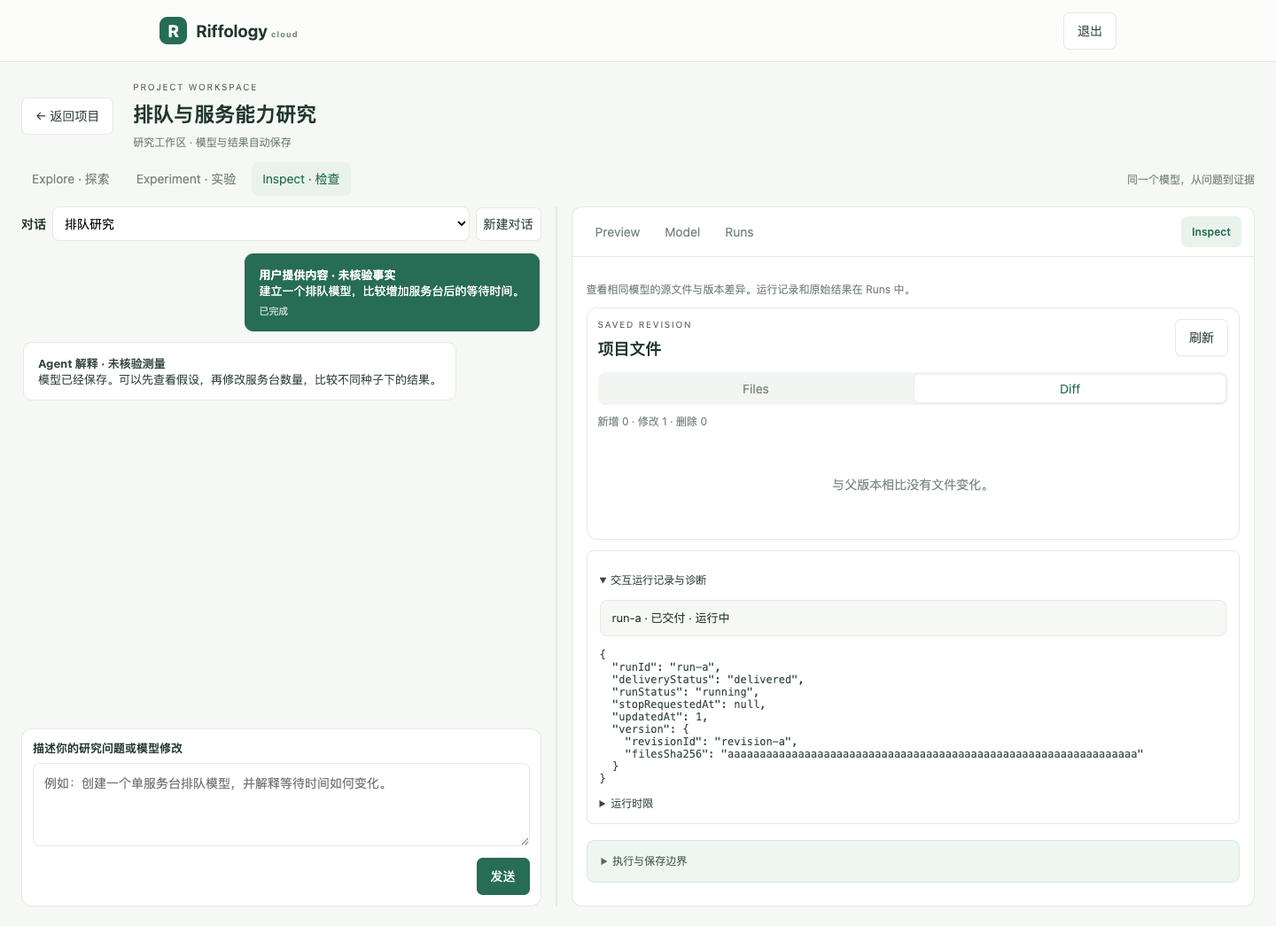
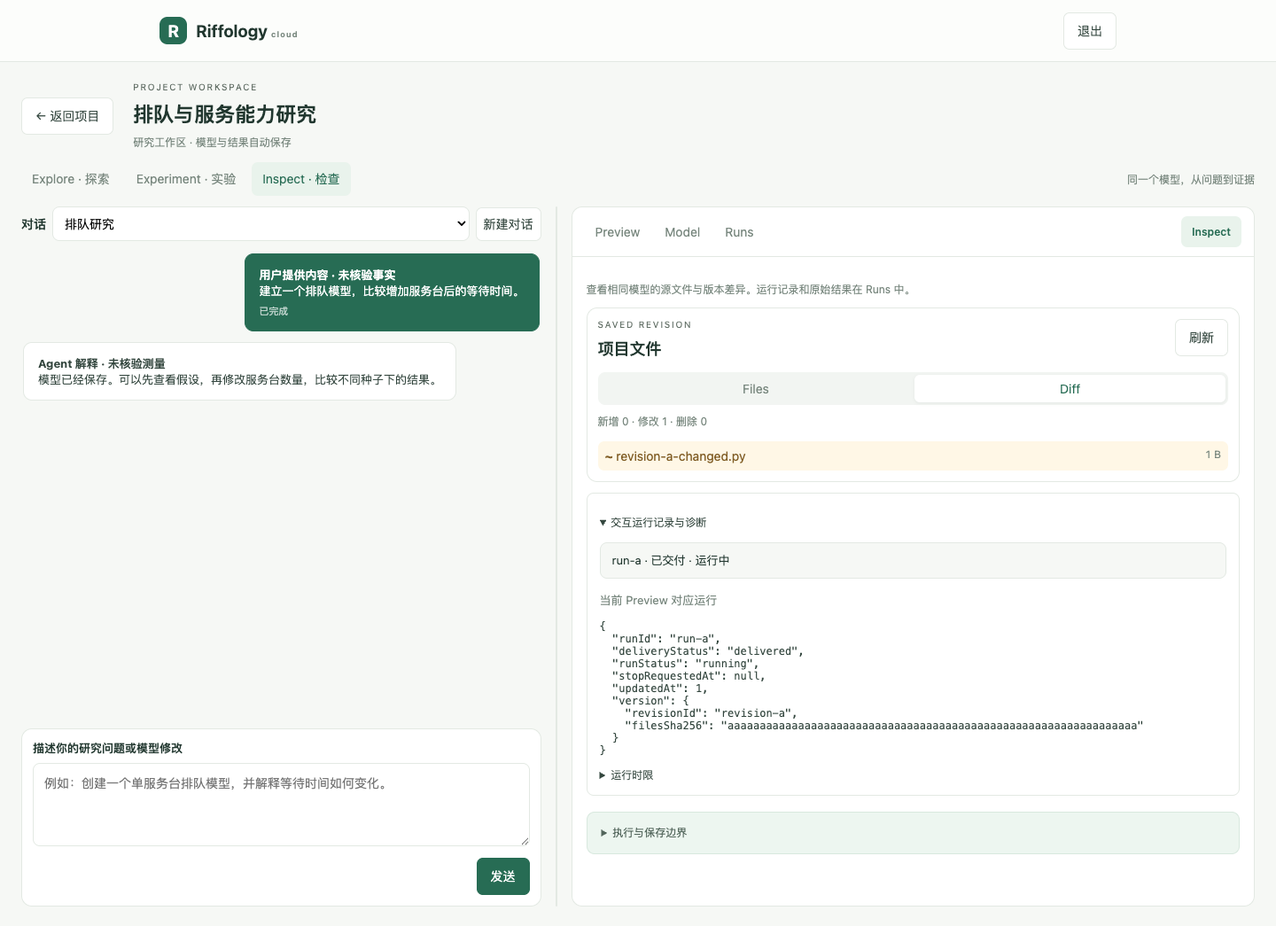
fix: fence stale preview and inspect read transitions

Changed region(s): [[0.4688, 0.5512, 0.875, 0.8268], [0.4688, 0.4593, 0.9688, 0.5512], [0.4688, 0.8268, 0.5312, 0.9493]]

diff --git a/services/web/previews.js b/services/web/previews.js
@@ -5,7 +5,7 @@ export function createPreviewPanel({ root, api, requestTimeoutMs = 15000, autoRe
   const doc = root.ownerDocument, win = doc.defaultView;
   const controls = doc.createElement('div'), frames = doc.createElement('div'), requests = new Set();
   let context = null, generation = 0, version = 0, selected = null, state = null, message = '', busy = false, loading = false, loadingPromise = null;
-  let frame = null, shownPreviewId = null, frameVersion = 0, expiryTimer = null, listener = null, awaitingRunId=null;
+  let frame = null, shownPreviewId = null, frameVersion = 0, expiryTimer = null, listener = null, awaitingRunId=null,stoppedRuns=new Set(),queuedOpenRun=null;
   const closedKey=()=>`riffology:preview-closed:${context.tenantId}:${context.workspaceId}`;
   const closed=()=>{try{return win.sessionStorage.getItem(closedKey());}catch{return null;}};
   const rememberClosed=value=>{try{if(value)win.sessionStorage.setItem(closedKey(),value);else win.sessionStorage.removeItem(closedKey());}catch{}};
@@ -63,6 +63,7 @@ export function createPreviewPanel({ root, api, requestTimeoutMs = 15000, autoRe
   function showTarget(raw,automatic=false) {
     if (!context?.canOpen) return;
     let value; try { value = target(raw); } catch { removeFrame(); message = '预览地址无效或已过期，请刷新。'; render(); return; }
+    if(stoppedRuns.has(value.runId)||awaitingRunId&&awaitingRunId!==value.runId)return;
     if(automatic&&(closed()===value.previewId||awaitingRunId&&awaitingRunId!==value.runId))return;if(!automatic)rememberClosed(null);awaitingRunId=null;
     removeFrame(); const token = generation, fv = frameVersion, scope = context, origin = new URL(value.bootstrapUrl).origin;
     const node = doc.createElement('iframe'); frame = node; shownPreviewId = value.previewId; node.title = '项目预览'; node.sandbox.value = 'allow-scripts allow-same-origin allow-forms'; node.referrerPolicy = 'no-referrer';
@@ -91,7 +92,7 @@ export function createPreviewPanel({ root, api, requestTimeoutMs = 15000, autoRe
     const token = generation, v = ++version, scope = context;
     loading = true; render();
     const task = (async () => {
-    try { const result = snapshot(await request(path(scope))); if (token !== generation || v !== version) return; state = result; if(frame && result.available?.previewId !== shownPreviewId)removeFrame(); if (!selected) selected = intent()?.body.runId || result.available?.runId || result.current?.runId || null; message = '';if(!awaitingRunId||result.available?.runId===awaitingRunId)onState?.(result);if(autoRestore&&result.available&&!frame&&!intent())showTarget(result.available,true); }
+    try { const result = snapshot(await request(path(scope))); if (token !== generation || v !== version) return;if(result.available&&stoppedRuns.has(result.available.runId))result.available=null; state = result; if(frame && result.available?.previewId !== shownPreviewId)removeFrame(); if (!selected) selected = intent()?.body.runId || result.available?.runId || result.current?.runId || null; message = '';if(!awaitingRunId||result.available?.runId===awaitingRunId)onState?.(result);if(autoRestore&&result.available&&!frame&&!intent())showTarget(result.available,true); }
     catch (error) { if (token === generation && v === version) { state = null; removeFrame(); message = error.name === 'TimeoutError' ? '读取预览超时。' : error?.status && error.status < 500 ? `无法读取预览：${error.message}` : '读取预览失败，请重试。'; } }
     finally { if (token === generation && v === version) { loading = false; render(); } }
     })();
@@ -101,35 +102,36 @@ export function createPreviewPanel({ root, api, requestTimeoutMs = 15000, autoRe
   }
   async function open() {
     if (!context?.canOpen || busy || loading || (!selected && !intent())) return;
-    const token = generation, scope = context, runId = selected; let submitted = false; ++version; busy = true; render();
+    const token = generation, scope = context, runId = selected, v=++version; let submitted = false; busy = true; render();
     try {
-      const latest = snapshot(await request(path(scope))); if (token !== generation) return; state = latest;
+      const latest = snapshot(await request(path(scope))); if (token !== generation||v!==version||stoppedRuns.has(runId)) return; state = latest;
       const pending = intent() || { key: crypto.randomUUID(), body: { runId, expectedPreviewId: latest.current?.previewId ?? null } };
       try { save(pending); } catch { message = '无法保存打开请求，请检查浏览器存储后重试。'; return; }
       submitted = true;
       const result = await request(path(scope), { method: 'POST', headers: { 'Idempotency-Key': pending.key }, body: JSON.stringify(pending.body) });
       if (token !== generation) return;
       const available = target(result); if (available.runId !== pending.body.runId) throw Error('preview-run-mismatch');
-      save(null); state = { current: { previewId: available.previewId, runId: available.runId, expiresAt: available.expiresAt, revokedAt: null }, available }; message = ''; showTarget(available);
+      save(null);if(v!==version||stoppedRuns.has(available.runId)||awaitingRunId&&awaitingRunId!==available.runId)return; state = { current: { previewId: available.previewId, runId: available.runId, expiresAt: available.expiresAt, revokedAt: null }, available }; message = ''; showTarget(available);
     } catch (error) {
       if (token !== generation) return;
       if (!submitted) message = error?.status === 503 ? '读取预览失败：服务暂不可用，请稍后重试。' : error?.name === 'TimeoutError' ? '读取预览超时，请重试。' : '读取预览失败，请重试。';
       else if (error?.status === 409) { try { save(null); } catch {} message = '状态已变化，请刷新后重试。'; }
       else if (error?.status && error.status < 500) message = `无法打开预览：${error.message}`;
       else message = '启动结果尚未确认，可使用同一请求重试。';
-    } finally { if (token === generation) { busy = false; render(); } }
+    } finally { if (token === generation) { busy = false; render();if(queuedOpenRun&&!intent()){const next=queuedOpenRun;queuedOpenRun=null;void openRun(next);} } }
   }
   function click(event) {
     const b = event.target.closest?.('[data-preview-action]'); if (!b || !root.contains(b) || b.disabled) return;
     const action = b.dataset.previewAction;
     if (action === 'open') void open(); else if (action === 'refresh') void load(); else if (action === 'recover') showTarget(state?.available); else if (action === 'close') { if(autoRestore)rememberClosed(shownPreviewId);removeFrame(); message = '已关闭预览视图，服务未停止。'; render(); }
   }
-  function leave() { generation++; version++; removeFrame(); for (const c of requests) c.abort(); requests.clear(); context = null; selected = null;awaitingRunId=null; state = null; message = ''; busy = false; loading = false; loadingPromise = null; root.removeEventListener('click', click); root.replaceChildren(); }
+  function leave() { generation++; version++; removeFrame(); for (const c of requests) c.abort(); requests.clear(); context = null; selected = null;awaitingRunId=null;stoppedRuns=new Set();queuedOpenRun=null; state = null; message = ''; busy = false; loading = false; loadingPromise = null; root.removeEventListener('click', click); root.replaceChildren(); }
   async function enter(value) { leave(); if (!value || !id(value.tenantId) || !id(value.workspaceId)) throw Error('invalid-preview-context'); context = { tenantId: value.tenantId, workspaceId: value.workspaceId, canOpen: value.canOpen === true }; selected = intent()?.body.runId || null; root.append(controls, frames); root.addEventListener('click', click); render(); await load(); }
   function selectRun(runId) { selected = id(runId) ? runId : null; render(); }
-  async function openRun(runId) { selectRun(runId); if (!selected) return; const token = generation; if (loadingPromise) await loadingPromise; if (token !== generation || selected !== runId) return; await open(); }
-  async function restoreRun(runId){if(!context||!id(runId))return;const token=generation;if(loadingPromise)await loadingPromise;if(token!==generation||intent()||closed()&&closed()===state?.current?.previewId)return;if(state?.available){if(state.available.runId===runId&&!frame)showTarget(state.available,true);return;}if(state?.current&&state.current.runId!==runId)return;selectRun(runId);await open();}
-  function stoppedRun(runId){if(state?.available?.runId===runId||state?.current?.runId===runId){removeFrame();if(state)state.available=null;message='交互模型已停止，参数与已保存结果仍可查看。重新运行需明确操作。';render();}}
-  function prepareRun(runId){if(!context||!id(runId))return;awaitingRunId=runId;removeFrame();message='新模型正在准备；确认运行后将显示新版本。';render();}
+  async function openRun(runId) { if(busy||intent()&&intent().body.runId!==runId){queuedOpenRun=runId;return;}selectRun(runId); if (!selected) return; const token = generation; if (loadingPromise) await loadingPromise; if (token !== generation || selected !== runId) return; await open(); }
+  async function restoreRun(runId){if(!context||!id(runId))return;const token=generation;if(loadingPromise)await loadingPromise;if(token!==generation||stoppedRuns.has(runId)||intent()||closed()&&closed()===state?.current?.previewId)return;if(state?.available){if(state.available.runId===runId&&!frame)showTarget(state.available,true);return;}if(state?.current&&state.current.runId!==runId)return;selectRun(runId);await open();}
+  function invalidateRead(){version++;loading=false;loadingPromise=null;}
+  function stoppedRun(runId){if(!id(runId))return;stoppedRuns.add(runId);if(selected===runId||state?.available?.runId===runId||state?.current?.runId===runId){invalidateRead();removeFrame();if(state)state.available=null;message='交互模型已停止，参数与已保存结果仍可查看。重新运行需明确操作。';render();}}
+  function prepareRun(runId){if(!context||!id(runId))return;invalidateRead();awaitingRunId=runId;removeFrame();message='新模型正在准备；确认运行后将显示新版本。';render();}
   return { enter, leave, selectRun, openRun, restoreRun, stoppedRun,prepareRun };
 }

diff --git a/services/web/services.js b/services/web/services.js
@@ -8,7 +8,7 @@ export function createServicePanel({ root, inspectRoot = null, api, onPreviewRun
   let current = null, generation = 0, listVersion = 0, detailVersion = 0, rows = [], cursor = null, selected = null, detail = null, savedRevision = null;
   let listError = '', listLoading = false, detailError = '', message = '', pending = null, posting = false, stopping = false, duration = 300000, timer = null, listening = false;
   const reads = new Set(), requests = new Set();
-  let previewNotified=null,explicitPreview=false;
+  let previewNotified=null,explicitPreview=false,inspectionDetail=null,inspectionError='',inspectVersion=0;
   const keyFor = context => `riffology:service-intent:${context.tenantId}:${context.workspaceId}`;
   const base = context => `/api/workspaces/${encodeURIComponent(context.workspaceId)}/services`;
   function save(context, value) { try { if (value) sessionStorage.setItem(keyFor(context), JSON.stringify(value)); else sessionStorage.removeItem(keyFor(context)); } catch { return false; } return true; }
@@ -44,7 +44,7 @@ export function createServicePanel({ root, inspectRoot = null, api, onPreviewRun
     if(workspaceMode){
       if(selected)controls.append(button(stopping?'正在停止…':'停止','stop',stopping||Boolean(!detailError&&detail&&isSettled(detail))));
       const currentState=element('p',detailError||listError||(detail?`${runLabels[detail.runStatus]||'正在恢复运行状态'}${detail.version?.revisionId?` · 模型版本：${detail.version.revisionId}`:''}${message?` · ${message}`:''}`:message|| (listLoading?'正在恢复模型状态…':'尚无交互预览；可运行已保存模型。')));currentState.setAttribute('role','status');
-      const diagnostics=element('details');diagnostics.dataset.inspectOnly='';diagnostics.className='workspace-service-details';diagnostics.append(element('summary','交互运行记录与诊断'),list);if(detail)diagnostics.append(element('pre',JSON.stringify(detail,null,2)));
+      const diagnostics=element('details');diagnostics.dataset.inspectOnly='';diagnostics.className='workspace-service-details';diagnostics.open=inspectRoot?.querySelector('details')?.open??false;diagnostics.append(element('summary','交互运行记录与诊断'),list);if(cursor)diagnostics.append(button('加载更多','more',listLoading));if(inspectionError)diagnostics.append(element('p',inspectionError));const inspected=inspectionDetail??detail;if(inspected){diagnostics.append(element('p',inspectionDetail?'历史运行详情；当前 Preview 与停止目标保持不变。':'当前 Preview 对应运行'),element('pre',JSON.stringify(inspected,null,2)));}
       if(inspectRoot){const durationBox=controls.querySelector('[data-inspect-only]');if(durationBox)diagnostics.append(durationBox);inspectRoot.replaceChildren(diagnostics);root.replaceChildren(controls,currentState);}else root.replaceChildren(controls,currentState,diagnostics);return;
     }
     root.replaceChildren(...contents);
@@ -97,11 +97,15 @@ export function createServicePanel({ root, inspectRoot = null, api, onPreviewRun
     catch (error) { if (token === generation && runId === selected) { detailError = error?.status && error.status < 500 ? `无法停止服务：${error.message}` : '停止结果尚未确认，请重试停止并刷新详情。'; } }
     finally { if (token === generation) { stopping = false; render(); schedule(); } }
   }
-  function click(event) { const target = event.target.closest?.('[data-service-action]'); if (!target || (!root.contains(target)&&!inspectRoot?.contains(target)) || target.disabled) return; const action = target.dataset.serviceAction; if(action==='preview'){if(current?.canStart&&!detailError&&detail?.runStatus==='running'&&!detail?.stopRequestedAt)onPreviewRun?.(selected);} else if (action === 'start') void start(); else if (action === 'refresh') { void load(); if(workspaceMode&&selected)void refreshDetail(); } else if (action === 'more') void load(true); else if (action === 'detail') void refreshDetail(); else if (action === 'stop') void stop(); else if (action === 'select') { selected = target.dataset.runId; detail = null; detailError = ''; render(); void refreshDetail(); } }
+  function click(event) { const target = event.target.closest?.('[data-service-action]'); if (!target || (!root.contains(target)&&!inspectRoot?.contains(target)) || target.disabled) return; const action = target.dataset.serviceAction; if(action==='preview'){if(current?.canStart&&!detailError&&detail?.runStatus==='running'&&!detail?.stopRequestedAt)onPreviewRun?.(selected);} else if (action === 'start') void start(); else if (action === 'refresh') { void load(); if(workspaceMode&&selected)void refreshDetail(); } else if (action === 'more') void load(true); else if (action === 'detail') void refreshDetail(); else if (action === 'stop') void stop(); else if (action === 'select'&&workspaceMode) { void inspectRun(target.dataset.runId); } else if (action === 'select') { selected = target.dataset.runId; detail = null; detailError = ''; render(); void refreshDetail(); } }
+  async function inspectRun(runId){
+    if(!current||!id(runId))return;const token=generation,version=++inspectVersion;inspectionError='';
+    try{const value=await read(`${base(current)}/${encodeURIComponent(runId)}`);if(token!==generation||version!==inspectVersion)return;inspectionDetail=value;}catch(error){if(token!==generation||version!==inspectVersion)return;inspectionError=error.message||'历史运行详情读取失败';}render();
+  }
   function change(event) { if (event.target.matches?.('[data-service-duration]') && !pending) duration = Number(event.target.value); }
   function visibility() { clearTimer(); if (doc.hidden) { detailVersion++; for (const controller of reads) controller.abort(); } else if (selected) void refreshDetail(); }
   function close() { generation++; listVersion++; detailVersion++; current = null; clearTimer(); for (const controller of requests) controller.abort(); requests.clear(); reads.clear(); if (listening) { root.removeEventListener('click', click); root.removeEventListener('change', change);inspectRoot?.removeEventListener('click',click);inspectRoot?.removeEventListener('change',change); doc.removeEventListener('visibilitychange', visibility); listening = false; } root.replaceChildren();inspectRoot?.replaceChildren(); }
-  function open(context) { close(); current = { ...context };previewNotified=null;explicitPreview=false; savedRevision = null; rows = []; cursor = null; selected = null; detail = null; listError = ''; detailError = ''; pending = restore(current); posting = false; stopping = false; message = pending ? '存在未确认的启动请求，请使用原请求重试。' : ''; if (!listening) { root.addEventListener('click', click); root.addEventListener('change', change);inspectRoot?.addEventListener('click',click);inspectRoot?.addEventListener('change',change); doc.addEventListener('visibilitychange', visibility); listening = true; } render(); return load(); }
+  function open(context) { close(); current = { ...context };previewNotified=null;explicitPreview=false;inspectionDetail=null;inspectionError='';inspectVersion++; savedRevision = null; rows = []; cursor = null; selected = null; detail = null; listError = ''; detailError = ''; pending = restore(current); posting = false; stopping = false; message = pending ? '存在未确认的启动请求，请使用原请求重试。' : ''; if (!listening) { root.addEventListener('click', click); root.addEventListener('change', change);inspectRoot?.addEventListener('click',click);inspectRoot?.addEventListener('change',change); doc.addEventListener('visibilitychange', visibility); listening = true; } render(); return load(); }
   function updateSavedRevision(workspaceId, revision) { if (current?.workspaceId !== workspaceId) return; savedRevision = revision && typeof revision === 'object' ? { ...revision } : null; render();if(workspaceMode&&detail)onState?.(detail,savedRevision); }
   function selectRun(runId){if(!current||!id(runId)||selected===runId)return;selected=runId;detail=null;detailError='';void refreshDetail();}
   return { open, close, savedRevision: updateSavedRevision,selectRun };

diff --git a/services/web/app.js b/services/web/app.js
@@ -85,7 +85,7 @@ function canSubmitConversation() {
 let eventSource = null;
 let eventRetryTimer = null;
 let snapshotRecovery = false;
-let workspaceFiles = null;
+let workspaceFiles = null, filesReadEpoch = 0, diffReadEpoch = 0;
 let workspaceFilesError = '';
 let workspaceDiff = null;
 let workspaceDiffError = '';
@@ -377,7 +377,7 @@ function renderWorkspaceFiles() {
   if (!workspaceFiles) { meta.textContent = '正在读取最新已保存版本…'; const loading = document.createElement('p'); loading.className = 'file-empty'; loading.textContent = '正在加载文件清单'; box.append(loading); return; }
   const files = Array.isArray(workspaceFiles.files) ? workspaceFiles.files : [];
   if (!workspaceFiles.revision) { meta.textContent = '尚无 Turn 保存版本'; const empty = document.createElement('p'); empty.className = 'file-empty'; empty.textContent = '项目完成首个回合并保存后，文件会显示在这里。'; box.append(empty); return; }
-  meta.textContent = `${files.length} 项 · 保存于 ${new Date(workspaceFiles.revision.committedAt).toLocaleString('zh-CN', { hour12: false })}`;
+  meta.textContent = `版本 ${workspaceFiles.revision.revisionId} · ${files.length} 项 · 保存于 ${new Date(workspaceFiles.revision.committedAt).toLocaleString('zh-CN', { hour12: false })}`;
   for (const item of files) {
     if (!item || typeof item.path !== 'string' || !['file', 'directory'].includes(item.type)) continue;
     const row = document.createElement('div'); row.className = `file-entry ${item.type}`;
@@ -390,11 +390,14 @@ function renderWorkspaceFiles() {
 
 async function refreshWorkspaceFiles(generation = viewGeneration) {
   if (!activeProject || generation !== viewGeneration) return;
-  const workspaceId = activeProject.workspace_id;
-  workspaceFilesError = ''; renderWorkspaceFiles();
-  try { const value = await api(`/api/workspaces/${encodeURIComponent(workspaceId)}/files`); if (generation !== viewGeneration || activeProject?.workspace_id !== workspaceId) return; const changed=workspaceFiles?.revision?.filesSha256!==value.revision?.filesSha256;workspaceFiles = value; servicePanel.savedRevision(workspaceId, value.revision);if(changed){void simulationPanel.reload();void comparisonPanel.reload();} }
-  catch (error) { if (generation !== viewGeneration) return; workspaceFilesError = error.message; }
-  renderWorkspaceFiles();
+  const workspaceId=activeProject.workspace_id,epoch=++filesReadEpoch,valid=()=>generation===viewGeneration&&activeProject?.workspace_id===workspaceId&&epoch===filesReadEpoch;
+  workspaceFilesError='';renderWorkspaceFiles();
+  try{const value=await api(`/api/workspaces/${encodeURIComponent(workspaceId)}/files`);if(!valid())return;
+    const changed=workspaceFiles?.revision?.filesSha256!==value.revision?.filesSha256||workspaceFiles?.revision?.revisionId!==value.revision?.revisionId;
+    workspaceFiles=value;servicePanel.savedRevision(workspaceId,value.revision);
+    if(changed){diffReadEpoch++;workspaceDiff=null;workspaceDiffError='';renderWorkspaceDiff();if(workspaceArtifactPanel==='diff')void refreshWorkspaceDiff(generation);void simulationPanel.reload();void comparisonPanel.reload();}
+  }catch(error){if(!valid())return;workspaceFilesError=error.message;}
+  if(valid())renderWorkspaceFiles();
 }
 
 function renderWorkspaceDiff() {
@@ -407,7 +410,10 @@ function renderWorkspaceDiff() {
   if(!box.childElementCount){const empty=document.createElement('p');empty.className='file-empty';empty.textContent='与父版本相比没有文件变化。';box.append(empty);}
 }
 
-async function refreshWorkspaceDiff(generation=viewGeneration){if(!activeProject||generation!==viewGeneration)return;const workspaceId=activeProject.workspace_id;workspaceDiffError='';renderWorkspaceDiff();try{const value=await api(`/api/workspaces/${encodeURIComponent(workspaceId)}/diff`);if(generation!==viewGeneration||activeProject?.workspace_id!==workspaceId)return;workspaceDiff=value;}catch(error){if(generation!==viewGeneration)return;workspaceDiffError=error.message;}renderWorkspaceDiff();}
+async function refreshWorkspaceDiff(generation=viewGeneration){
+  if(!activeProject||generation!==viewGeneration)return;const workspaceId=activeProject.workspace_id,epoch=++diffReadEpoch,valid=()=>generation===viewGeneration&&activeProject?.workspace_id===workspaceId&&epoch===diffReadEpoch;
+  workspaceDiffError='';renderWorkspaceDiff();try{const value=await api(`/api/workspaces/${encodeURIComponent(workspaceId)}/diff`);if(!valid())return;workspaceDiff=value;}catch(error){if(!valid())return;workspaceDiffError=error.message;}if(valid())renderWorkspaceDiff();
+}
 
 function selectArtifactPanel(panel){workspaceArtifactPanel=panel==='diff'?'diff':'files';const diff=workspaceArtifactPanel==='diff';$('#files-tab').setAttribute('aria-selected',String(!diff));$('#diff-tab').setAttribute('aria-selected',String(diff));$('#files-view').hidden=diff;$('#diff-view').hidden=!diff;if(diff&&!workspaceDiff&&!workspaceDiffError)void refreshWorkspaceDiff(viewGeneration);}
 

diff --git a/services/web/simulation.js b/services/web/simulation.js
@@ -89,7 +89,7 @@ function createSimulationPanel({root,api,modelRoot=null,historyRoot=null,onModel
     const token=generation,current=context,epoch=readEpoch,valid=()=>token===generation&&current===context&&epoch===readEpoch;
     timer=setTimeout(async()=>{try{const e=await api(path('/experiments'));if(valid()){experiments=(e?.items||[]).map(publicExperiment).filter(Boolean);render();}}catch{}finally{if(valid())schedulePoll();}},1500);
   }
-  async function submitPending(){if(!pending||loading||posting)return;posting=true;render();const token=generation,current=context,attempt=pending;try{const result=await api(path('/experiments'),{method:'POST',headers:{'Idempotency-Key':attempt.key},body:JSON.stringify(attempt.body),signal:AbortSignal.timeout(15000)});if(token!==generation||current!==context||pending!==attempt)return;savePending(null);pending=null;experiments=[publicExperiment(result),...experiments.filter(item=>item.runId!==result.runId)].filter(Boolean);message='实验已接收，状态会自动更新。';render();schedulePoll();}catch(error){if(token===generation&&current===context&&pending===attempt){message=error.message||'实验提交结果尚未确认，可使用同一请求重试。';const known=['simulation-input-invalid','invalid-model-spec','model-spec-missing','model-spec-invalid','model-contract-mismatch','model-dependencies-invalid','model-dependencies-unsupported'];if((error.status===400&&known.includes(error.code))||(error.status===409&&error.code==='simulation-model-stale')||(error.status===413&&error.code==='body_too_large')){savePending(null);pending=null;draft={...(attempt.body.parameters||{})};seedValue=Number.isSafeInteger(attempt.body.seed)?attempt.body.seed:42;draftDirty=true;}render();}}finally{if(token===generation&&current===context){posting=false;render();}}}
+  async function submitPending(){if(!pending||loading||posting)return;posting=true;render();const token=generation,current=context,attempt=pending;try{const result=await api(path('/experiments'),{method:'POST',headers:{'Idempotency-Key':attempt.key},body:JSON.stringify(attempt.body),signal:AbortSignal.timeout(15000)});if(token!==generation||current!==context||pending!==attempt)return;savePending(null);pending=null;readEpoch++;loading=false;clearTimeout(timer);experiments=[publicExperiment(result),...experiments.filter(item=>item.runId!==result.runId)].filter(Boolean);message='实验已接收，状态会自动更新。';render();schedulePoll();}catch(error){if(token===generation&&current===context&&pending===attempt){message=error.message||'实验提交结果尚未确认，可使用同一请求重试。';const known=['simulation-input-invalid','invalid-model-spec','model-spec-missing','model-spec-invalid','model-contract-mismatch','model-dependencies-invalid','model-dependencies-unsupported'];if((error.status===400&&known.includes(error.code))||(error.status===409&&error.code==='simulation-model-stale')||(error.status===413&&error.code==='body_too_large')){savePending(null);pending=null;draft={...(attempt.body.parameters||{})};seedValue=Number.isSafeInteger(attempt.body.seed)?attempt.body.seed:42;draftDirty=true;}render();}}finally{if(token===generation&&current===context){posting=false;render();}}}
   async function submit(form){if(pending)return submitPending();if(!model?.canRun||!model.version)return;const parameters={};for(const item of params(model.spec)){const field=form.get(item.id);if(item.type==='boolean')parameters[item.id]=field!==null;else if(item.type==='integer'||item.type==='number')parameters[item.id]=Number(field);else parameters[item.id]=field;}if(!Number.isSafeInteger(seedValue)||seedValue<0||seedValue>4294967295||Object.values(parameters).some(value=>typeof value==='number'&&!Number.isFinite(value))){message='参数或 Seed 无效，请检查输入。';render();return;}pending={key:crypto.randomUUID(),body:{revisionId:model.version.revisionId,filesSha256:model.version.filesSha256,specSha256:model.version.specSha256,parameters,seed:seedValue}};savePending(pending);await submitPending();}
   async function cancelRun(runId){const token=generation,current=context;try{await api(`/api/workspaces/${encodeURIComponent(current.workspaceId)}/simulation-runs/${encodeURIComponent(runId)}/cancel`,{method:'POST',body:'{}'});if(token===generation&&current===context)await load();}catch(error){if(token===generation&&current===context){message=error.message||'停止请求尚未确认。';render();}}}
   async function enter(value){leave();if(!value||!id(value.tenantId)||!id(value.workspaceId))throw Error('invalid-simulation-context');context=value;generation++;pending=readPending();render();await load();}

diff --git a/docs/workspace-research-layout.md b/docs/workspace-research-layout.md
@@ -13,7 +13,7 @@ The actual Gateway web application in `services/web` keeps the Agent and the mod
 
 Entering a project restores an existing Preview binding and redeems a fresh access ticket without executing the model. When no binding exists, an already-running service may be connected; a stopped service is not restarted. Preview binding/retry continues to use the existing CAS and durable idempotency protocol.
 
-The displayed Preview pins the selected service used by the version label and Stop button, even when a different running service is first in the list. A newly saved model is identified as newer than the displayed Preview. Only explicit **Run saved model** admission changes the service selection and then rebinds the Preview. The old iframe is removed while the new explicit run is prepared so it cannot impersonate the new version. When the service stops, parameters, results and history remain visible; rerun is explicit.
+The displayed Preview pins the selected service used by the version label and Stop button, even when a different running service is first in the list. Inspect history selection reads separate diagnostic details and never changes that Preview or its Stop target; older history remains paginated. A newly saved model is identified as newer than the displayed Preview. Only explicit **Run saved model** admission changes the service selection and then rebinds the Preview. The old iframe is removed while the new explicit run is prepared so it cannot impersonate the new version. When the service stops, parameters, results and history remain visible; rerun is explicit.
 
 Manual close is remembered in project-scoped session storage across refresh. It closes only the view and does not stop the service. Explicit recovery remains available. A failed Preview read or ticket request leaves a visible retry action; recovery is not suppressed by the service's already-notified marker. Healthy connected previews hide the redundant recovery button and place refresh under Preview options. Independent uses of the service/Preview modules retain their previous default behavior.
 
@@ -22,5 +22,9 @@ Manual close is remembered in project-scoped session storage across refresh. It 
 `tests/m3/workspace-layout.test.mjs` loads the real app HTML/modules in installed Chrome, with intercepted authenticated API fixtures and a cross-origin iframe explicitly labelled **LOCAL UI FIXTURE**. It covers desktop default ratio, keyboard/drag, view/depth persistence, tablet split, mobile switching and refresh; mismatched running-service ordering; old/new model state; parameter rerun without any Turn POST; explicit rebind; Stop identity and retained results after reopen; manual close and failed-read recovery. Tests assert no unintended service/experiment executions on layout changes and restoration.
 
 Ordinary checks write screenshots only under `.local/workspace-layout-screenshots`. To update the committed review evidence explicitly, set `WORKSPACE_LAYOUT_EVIDENCE_DIR=docs/evidence/workspace-layout-local-20260914` when running the layout test. Screenshots are in [the local evidence directory](evidence/workspace-layout-local-20260914/): desktop Explore/Model/Experiment/Inspect, tablet, mobile Chat/Preview, old Preview with new model, and explicit new-model Preview. These images and fixtures demonstrate UI behavior only. They do **not** certify deployed state, a live simulation, paid model execution, cloud capacity release, or the complete research-loop acceptance. Those remain separate controlled acceptance records.
+
+Same-workspace model, result, Files and Diff reads carry request epochs, so older responses cannot overwrite a newer head, rejection or accepted Run. Preview stop/new-model transitions also invalidate pending reads; an older Preview mutation can confirm its original intent without mounting the old iframe. The explicitly started replacement is connected after the prior mutation settles; an unknown prior mutation retains its explicit retry requirement.
+
+`tests/m3/workspace-assets-workerd.test.mjs` traverses the real index/app asset graph through the actual Gateway in Workerd, including its static allowlist and headers; browser fixture maps alone are not sufficient for this check.
 
 Related compatibility suites: `tests/m1/web.test.mjs`, `tests/m3/service-panel.test.mjs`, `tests/m3/preview-panel.test.mjs`, `tests/m3/simulation-ui.test.mjs`. They retain authorization, disabled/maintenance projects, unknown mutation response retry, history recovery and standalone panel checks. Release candidates additionally run the repository's full `npm run check`.
